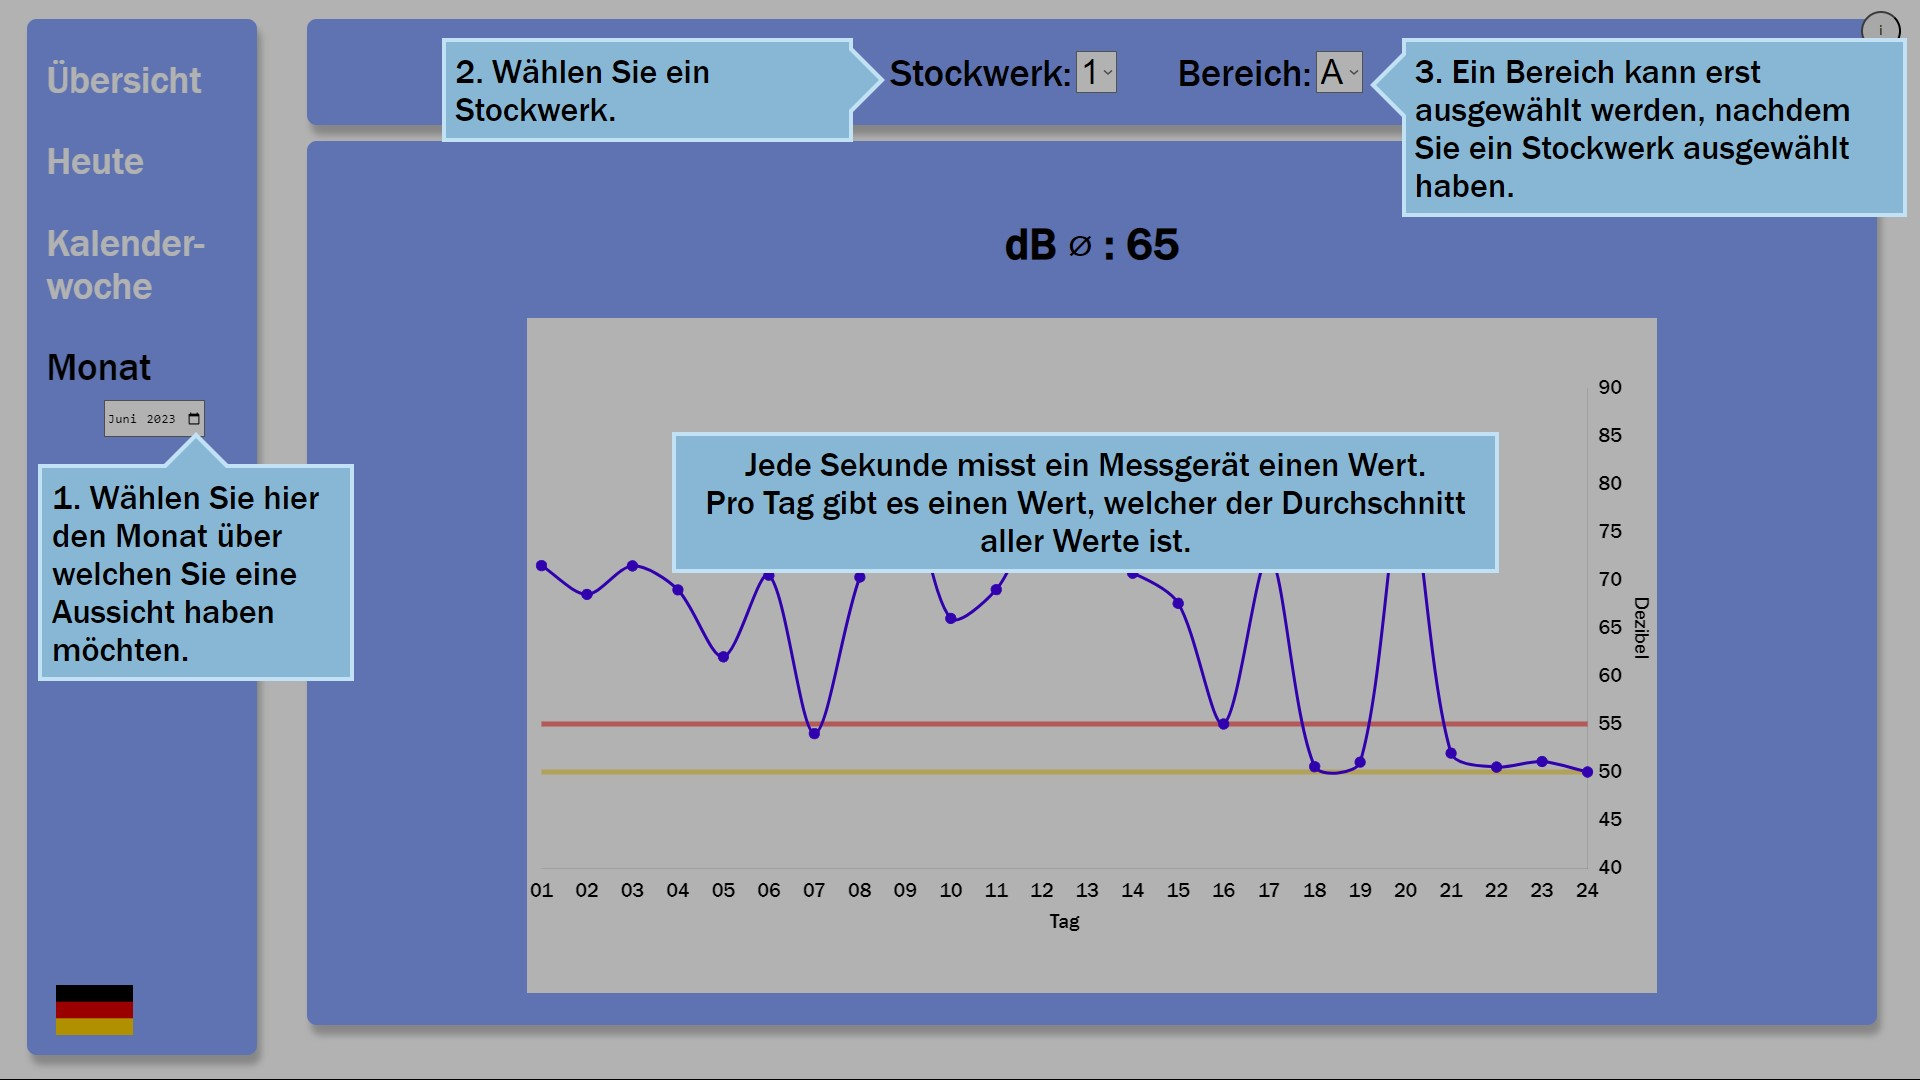
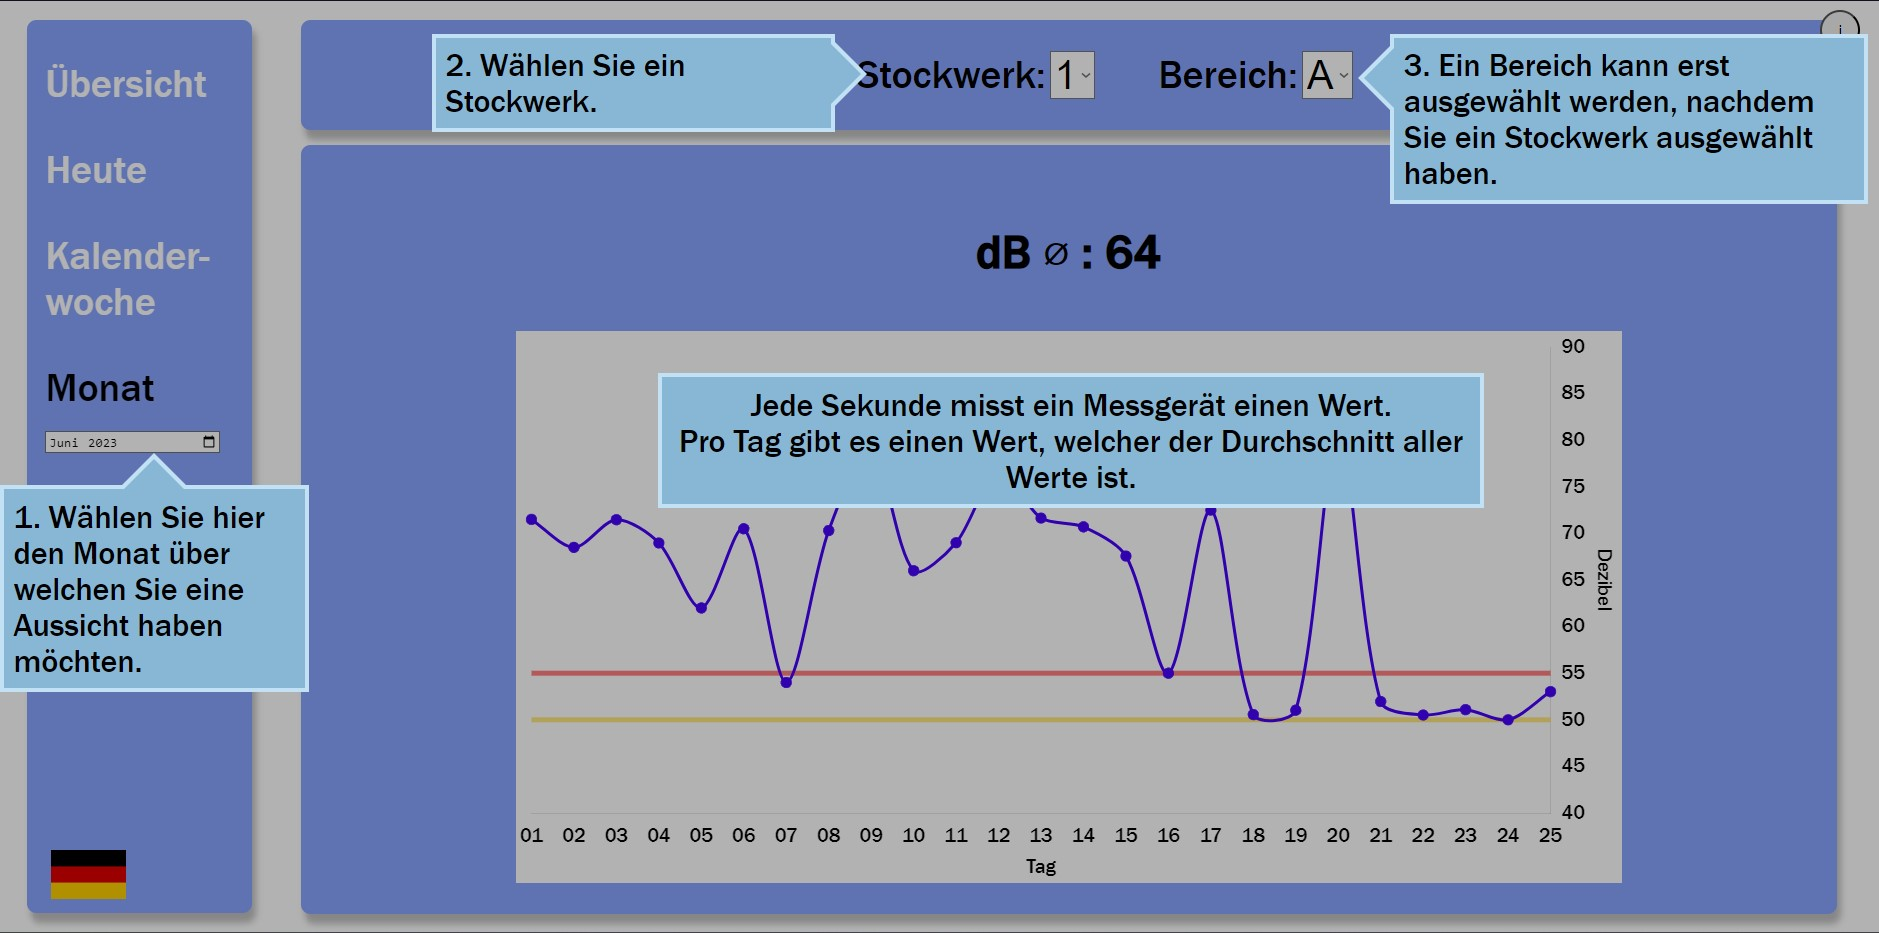
Info, kw und monat eingabe angepasst

diff --git a/static/style.css b/static/style.css
@@ -441,16 +441,13 @@ input[type="datetime-local"] {
 
 .time-box {
   width: 10vw;
-  height: 3vh;
-  margin-left: 50%;
 }
 
 
 
 /*MONAT*/
 #month_selection {
-  width: 5vw;
-  height: 3vh;
+  width: 90%;
 }
   
 .space-bottom {
@@ -623,6 +620,8 @@ input[type="datetime-local"] {
 
 #reason {
   margin-left: 10%;
+  width: 100%;
+  font-size: 1rem;
 }
 
 #line {
@@ -635,7 +634,7 @@ input[type="datetime-local"] {
 
 #volume-selection-input {
   font-size: 2rem;
-  width: 5%;
+  width: 12%;
 }
 
 #start-no-notification {
@@ -667,6 +666,8 @@ input[type="datetime-local"] {
   z-index: 1;
   left: 0;
   top: 0;
+  width: 100%;
+  height: 100%;
   overflow: auto;
   background-color: rgba(0, 0, 0, 0.3);
 }
@@ -675,13 +676,14 @@ input[type="datetime-local"] {
   color: black;
   margin: auto;
   width: 100%;
+  font-size: 32px;
 }
 
 .close {
   position: absolute;
   right: 0;
   font-size: calc(45px + (45 - 16) * ((100vw - 320px) / (1600 - 320)));
-  color: black;
+  color: rgba(0, 0, 0, 0.00005);
   float: right;
   font-weight: bold;
 }
@@ -694,8 +696,8 @@ input[type="datetime-local"] {
 }
 
 .img-info {
-  height: 100%;
-  width: 100%;
+  width: 100vw;
+  height: 99.3vh;
 }
 
 .info-measure-system-overview {
@@ -703,6 +705,7 @@ input[type="datetime-local"] {
   text-align: center;
   width: 800px;
   left: 35vw;
+  top: 10vh;
   padding: 0.5%;
 	background: #88b7d5;
 	border: 4px solid #c2e1f5;
@@ -727,7 +730,7 @@ input[type="datetime-local"] {
   text-align: center;
   height: 50%;
   width: 500px;
-  top: 17vh;
+  top: 22vh;
   left: 40%;
   padding: 0.5%;
 	background: #88b7d5;
@@ -763,6 +766,7 @@ input[type="datetime-local"] {
 	position: fixed;
   width: 20%;
   left: 23vw;
+  top: 3.5vh;
   padding: 0.5%;
 	background: #88b7d5;
 	border: 4px solid #c2e1f5;
@@ -793,8 +797,9 @@ input[type="datetime-local"] {
 
 .info-area {
 	position: relative;
-  width: 26%;
-  left: 71vw;
+  width: 24%;
+  left: 74vw;
+  top: 3.5vh;
   padding: 0.5%;
 	background: #88b7d5;
 	border: 4px solid #c2e1f5;
@@ -832,7 +837,7 @@ input[type="datetime-local"] {
 	position: fixed;
   width: 15%;
   left: 80vw;
-  top: 32vh;
+  top: 36vh;
   padding: 0.5%;
 	background: #88b7d5;
 	border: 4px solid #c2e1f5;
@@ -864,7 +869,7 @@ input[type="datetime-local"] {
 .info-weekpicker {
 	position: fixed;
   width: 15%;
-  top: 35vh;
+  top: 42vh;
   padding: 0.5%;
 	background: #88b7d5;
 	border: 4px solid #c2e1f5;
@@ -897,7 +902,7 @@ input[type="datetime-local"] {
 .info-monthpicker {
 	position: fixed;
   width: 15%;
-  top: 43vh;
+  top: 52vh;
   padding: 0.5%;
 	background: #88b7d5;
 	border: 4px solid #c2e1f5;

diff --git a/templates/Deutsch/kalenderwoche.html b/templates/Deutsch/kalenderwoche.html
@@ -13,7 +13,24 @@
         <div id="infoModal" class="modal">
             <div class="modal-content">
                 <span class="close">&times;</span>
-                <img class="img-info" src="../../static/bilder/Info/Info-kalenderwoche.jpg">
+                <img class="img-info" src="{{url_for('static', filename='bilder/Info/Info-kalenderwoche.jpg')}}">
+                <!--<div class="info-floor">
+                    2. Wählen Sie ein Stockwerk.
+                </div>
+                <div class="info-area">
+                    3. Ein Bereich kann erst ausgewählt werden, nachdem Sie ein Stockwerk ausgewählt haben.
+                </div>
+                <div class="info-weekpicker">
+                    1. Wählen Sie hier die Kalenderwoche über welche Sie eine Aussicht haben möchten.
+                </div>
+                <div class="info-kwday">
+                    Sie können durch anklicken der Tage das jeweilige Liniendiagramm aus dem Graphen entfernen und durch erneutes klicken wieder hinzufügen machen.
+                </div>
+                <div class="info-measure-system">
+                    Jede Sekunde misst ein Messgerät einen Wert.<br>
+                    Nach einer Stunde wird der Mittelwert von allen Werten
+                    eines Bereichs berechnet.<br> Gemessen wird von X:30 Uhr bis X:29:59 Uhr.<br>
+                </div>-->
             </div>
         </div>
         <div class="navbar">

diff --git a/templates/Deutsch/monat.html b/templates/Deutsch/monat.html
@@ -16,7 +16,20 @@
         <div id="infoModal" class="modal">
             <div class="modal-content">
                 <span class="close">&times;</span>
-                <img class="img-info" src="../../static/bilder/Info/Info-monat.jpg">
+                <img class="img-info" src="{{url_for('static', filename='bilder/Info/Info-monat.jpg')}}">
+                <!--<div class="info-floor">
+                    2. Wählen Sie ein Stockwerk.
+                </div>
+                <div class="info-area">
+                    3. Ein Bereich kann erst ausgewählt werden, nachdem Sie ein Stockwerk ausgewählt haben.
+                </div>
+                <div class="info-monthpicker">
+                    1. Wählen Sie hier den Monat über welchen Sie eine Aussicht haben möchten.
+                </div>
+                <div class="info-measure-system">
+                    Jede Sekunde misst ein Messgerät einen Wert.<br>
+                    Pro Tag gibt es einen Wert, welcher der Durchschnitt aller Werte ist.
+                </div>-->
             </div>
         </div>
         <div class="navbar">

diff --git a/templates/Deutsch/uebersicht.html b/templates/Deutsch/uebersicht.html
@@ -16,7 +16,23 @@
         <div id="infoModal" class="modal">
             <div class="modal-content">
                 <span class="close">&times;</span>
-                <img class="img-info" src="../../static/bilder/Info/Info-übersicht.jpg">
+                <img class="img-info" src="{{url_for('static', filename='bilder/Info/Info-übersicht.jpg')}}">
+                <!--<div class="info-measure-system-overview">
+                    Jede Sekunde misst ein Messgerät einen Wert.<br>
+                    Nach 10 Sekunden wird der Mittelwert von allen Werten
+                    eines Bereichs berechnet.<br>
+                    Daraus folgt die Bewertung und die Anzeige als Farbe.
+                </div>
+                <br>
+                <br>
+                <br>
+                <br>
+                <br>
+                <br>
+                <div class="info-overview-areas">
+                    Die Bereiche sind klickbar und führen
+                    auf die Heute-Seite des gewählten Bereichs.
+                </div>-->
             </div>
         </div>
         <div class="navbar">

diff --git a/templates/Deutsch/heute.html b/templates/Deutsch/heute.html
@@ -14,7 +14,18 @@
     <div id="infoModal" class="modal">
         <div class="modal-content">
             <span class="close">&times;</span>
-            <img class="img-info" src="../../static/bilder/Info/Info-heute.jpg">
+            <img class="img-info" src="{{url_for('static', filename='bilder/Info/Info-heute.jpg')}}">
+            <!--<div class="info-floor">
+                Als erstes wählen Sie ein Stockwerk.
+            </div>
+            <div class="info-area">
+                Ein Bereich kann erst ausgewählt werden, nachdem Sie ein Stockwerk ausgewählt haben.
+            </div>
+            <div class="info-measure-system">
+                Jede Sekunde misst ein Messgerät einen Wert.<br>
+                Nach einer Stunde wird der Mittelwert von allen Werten
+                eines Bereichs berechnet.<br> Gemessen wird von X:30 Uhr bis X:29:59 Uhr.<br>
+            </div>-->
         </div>
     </div>
     <div class="container">
